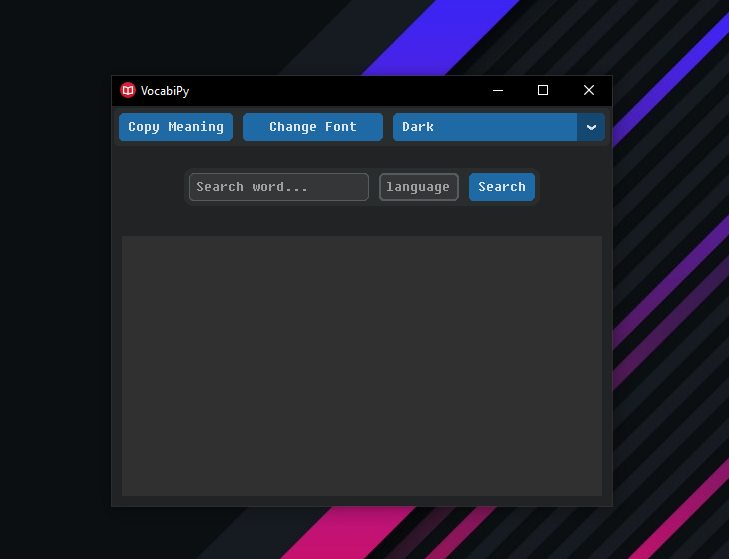
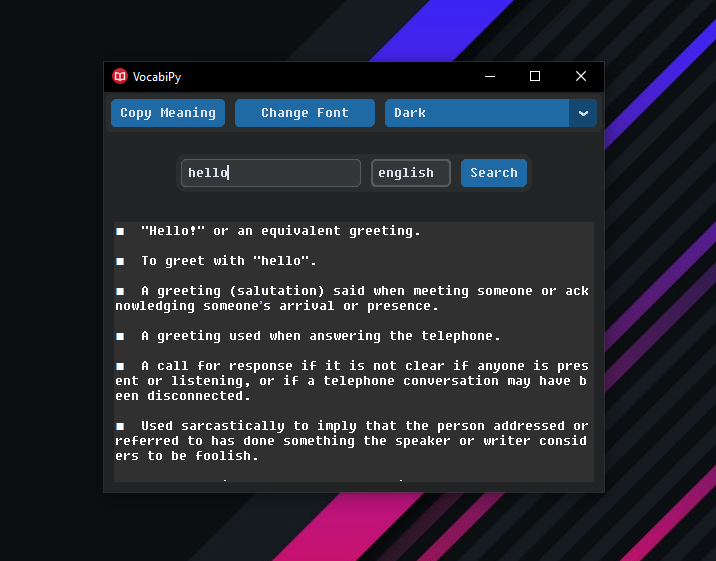
Added new UI Images

diff --git a/main.py b/main.py
@@ -62,6 +62,7 @@ class App(ctk.CTk):
         #preferred language
         self.language_entry = ctk.CTkEntry(self.entry_frame, text_font=('Fixedsys', 12), width=80, placeholder_text="language")
         self.language_entry.grid(row=0, column=1, pady=5, padx=5)
+        self.language_entry.insert(0, 'english')
 
     
     

diff --git a/README.md b/README.md
@@ -8,6 +8,9 @@
 
 
 <h1>Light Mode</h1>
+
+> with translation
+
 <img src="ui-images\LightMode.PNG" alt="Light mode VocabiPy"></img>
 
 
